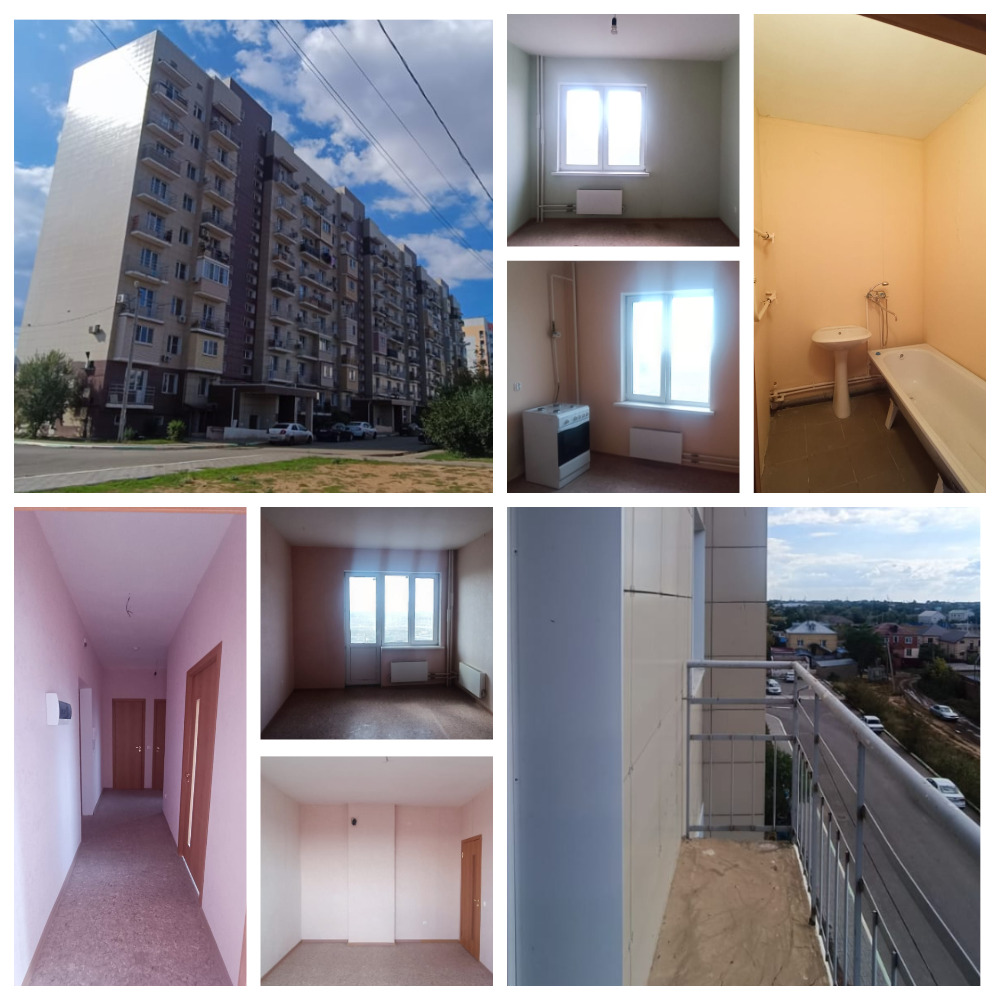
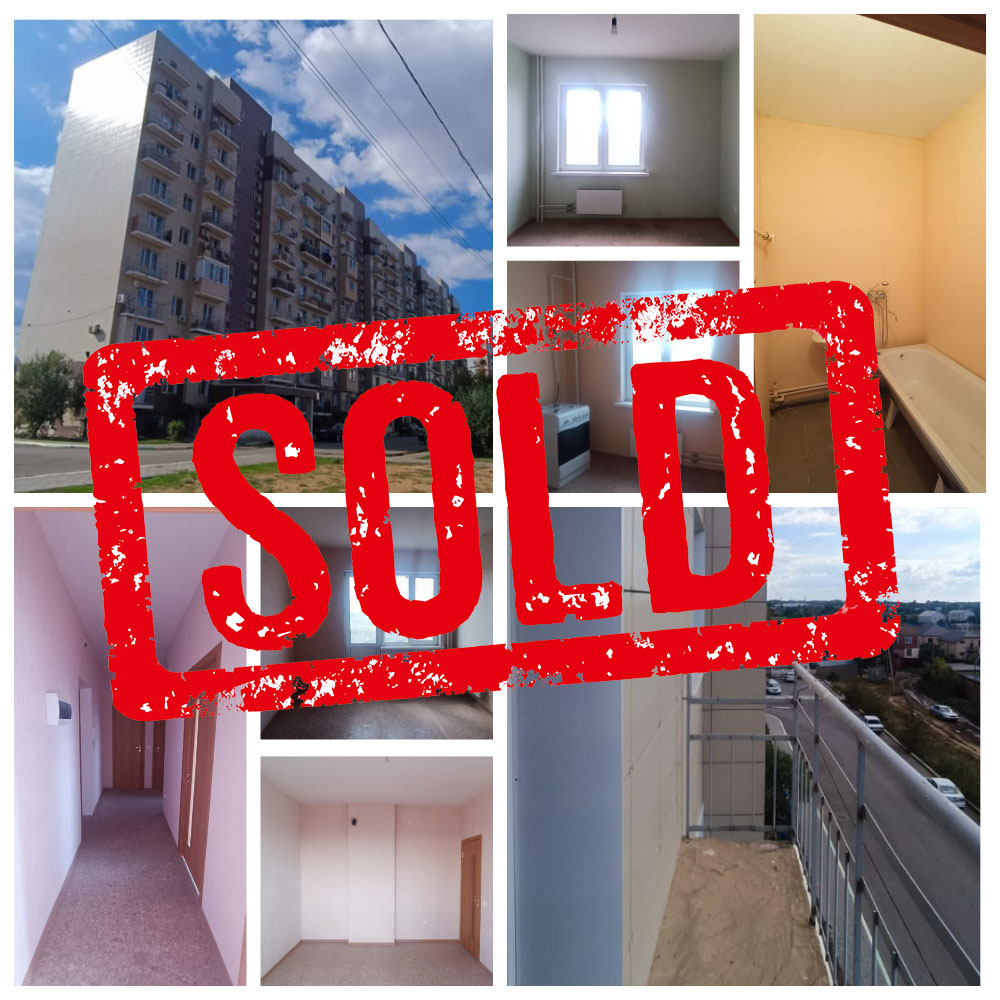
sold

Changed region(s): [[0.062, 0.279, 0.899, 0.744]]

diff --git a/index.html b/index.html
@@ -99,18 +99,6 @@
 
           <div class="col-6 col-sm-4 mt-4">
             <div class="card">
-              <img src="img/objects/granovsky.jpg" class="card-img-top"
-                alt="Видимо, интернет слишком медленный, чтобы прогрузить фото, или ошибка в самом сайте">
-              <div class="card-body">
-                <h5 class="card-title">2-к кв в Военном городке</h5>
-                <p class="card-text">Хорошо подходит для малой молодой семьи и дружной семьи. Рядом конечная остановка, с которой можно уехать в любую часть города. <br> 3 400 000 Р </p>
-                <a href="granovsky/object_1.html" class="btn btn-primary mt-2">Посмотреть</a>
-              </div>
-            </div>
-          </div>
-
-          <div class="col-6 col-sm-4 mt-4">
-            <div class="card">
               <img src="img/objects/dubr.jpg" class="card-img-top"
                 alt="Видимо, интернет слишком медленный, чтобы прогрузить фото, или ошибка в самом сайте">
               <div class="card-body">
@@ -149,6 +137,28 @@
 
       </div>
     </div>
+
+    <div class="container">
+      <h2 class="text-center">Проданные объекты.</h2>
+
+      <div class="row">
+
+        <div class="col-6 col-sm-4 mt-4">
+          <div class="card">
+            <img src="img/objects/granovsky.jpg" class="card-img-top"
+              alt="Видимо, интернет слишком медленный, чтобы прогрузить фото, или ошибка в самом сайте">
+            <div class="card-body">
+              <h5 class="card-title">2-к кв в Военном городке</h5>
+              <p class="card-text">Хорошо подходит для малой молодой семьи и дружной семьи. Рядом конечная остановка, с которой можно уехать в любую часть города. <br> 3 200 000 Р </p>
+              <a href="granovsky/object_1.html" class="btn btn-primary mt-2">Посмотреть</a>
+            </div>
+          </div>
+        </div>
+
+      </div>
+
+    </div>
+  </div>
 
     <div class="about mt-5" id="about">
 

diff --git a/granovsky/object_1.html b/granovsky/object_1.html
@@ -68,7 +68,7 @@
                         Звоните ПРЯМО СЕЙЧАС, пока квартиру ВАШЕЙ мечты не купил кто-то другой. Никакой комиссии при
                         покупке! <br> <br>
 
-                        <strong>Цена: 3 400 000 Р</strong>
+                        <strong>Цена: 3 200 000 Р</strong>
                     </p>
                 </div>
 
